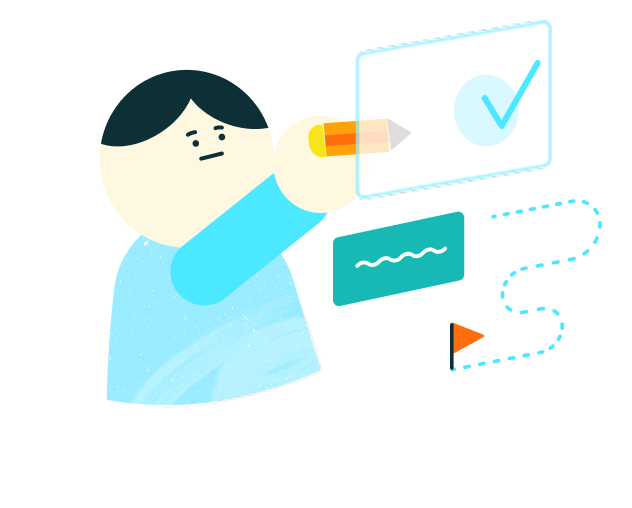
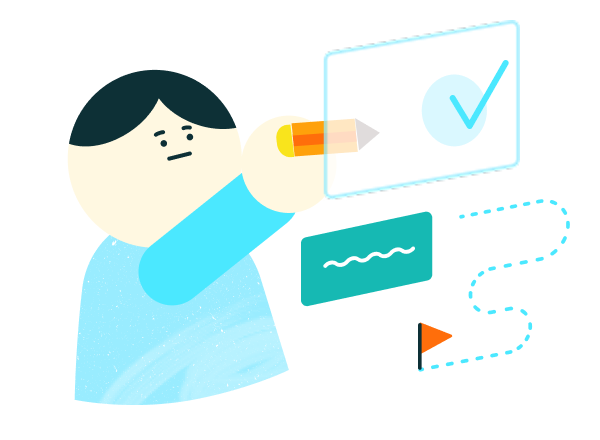
refactor(BaseLayout): implement parallax effects in CTASection, FunctionCarousel, PersonalitySection, and SloganSection for enhanced visual dynamics

Changed region(s): [[0.09, 0.0295, 0.96, 0.9455], [0.75, 0.7682, 0.87, 0.8273], [0.9, 0.5614, 0.93, 0.5909]]

diff --git a/hooks/useParallax.ts b/hooks/useParallax.ts
@@ -1,0 +1,105 @@
+'use client';
+
+import { useEffect, useRef, useState } from 'react';
+
+interface UseParallaxOptions {
+  speed?: number;
+  direction?: 'up' | 'down';
+  offset?: number;
+}
+
+interface UseParallaxPresetOptions {
+  preset?: 'slow';
+}
+
+// 預設配置 
+const PARALLAX_PRESETS = {
+  'slow': {
+    speed: 0.08,  // 慢速 - 適合背景元素、裝飾圖片
+    direction: 'up' as const,
+    offset: 0
+  }
+};
+
+export function useParallax<T extends HTMLElement = HTMLElement>(
+  options: UseParallaxOptions & UseParallaxPresetOptions = {}
+) {
+  const { preset, ...customOptions } = options;
+  
+  // 如果有預設配置，使用預設配置並覆蓋自定義選項
+  const presetConfig = preset ? PARALLAX_PRESETS[preset] : {};
+  const finalOptions = { ...presetConfig, ...customOptions };
+  
+  const { speed = 0.15, direction = 'up', offset = 0 } = finalOptions;
+  const elementRef = useRef<T>(null);
+  const [translateY, setTranslateY] = useState(0);
+
+  useEffect(() => {
+    let ticking = false;
+
+    const handleScroll = () => {
+      if (!ticking) {
+        requestAnimationFrame(() => {
+          if (!elementRef.current) {
+            ticking = false;
+            return;
+          }
+
+          const rect = elementRef.current.getBoundingClientRect();
+          const windowHeight = window.innerHeight;
+          const elementTop = rect.top;
+          const elementHeight = rect.height;
+
+          // 計算元素在視窗中的可見程度
+          const elementCenter = elementTop + elementHeight / 2;
+          const windowCenter = windowHeight / 2;
+          
+          // 當元素進入視窗時開始計算視差
+          if (elementTop < windowHeight && elementTop + elementHeight > 0) {
+            const distanceFromCenter = elementCenter - windowCenter;
+            const parallaxDistance = distanceFromCenter * speed;
+            
+            // 根據方向調整移動方向
+            const finalTranslateY = direction === 'up' 
+              ? parallaxDistance + offset
+              : -parallaxDistance + offset;
+            
+            setTranslateY(finalTranslateY);
+          }
+          
+          ticking = false;
+        });
+        ticking = true;
+      }
+    };
+
+    // 初始計算
+    handleScroll();
+
+    // 添加滾動監聽器
+    window.addEventListener('scroll', handleScroll, { passive: true });
+    window.addEventListener('resize', handleScroll, { passive: true });
+
+    return () => {
+      window.removeEventListener('scroll', handleScroll);
+      window.removeEventListener('resize', handleScroll);
+    };
+  }, [speed, direction, offset]);
+
+  return {
+    ref: elementRef,
+    style: {
+      transform: `translateY(${translateY}px)`,
+    },
+  };
+}
+
+/**
+ * 創建多個視差效果的便利函數
+ * 特別用於需要多個視差元素的場景
+ */
+export function useMultipleParallax<T extends HTMLElement = HTMLElement>(
+  configs: Array<UseParallaxOptions & UseParallaxPresetOptions>
+) {
+  return configs.map(config => useParallax<T>(config));
+}

diff --git a/app/[language]/(BaseLayout)/_home/PersonalityTest/PersonalitySection.tsx b/app/[language]/(BaseLayout)/_home/PersonalityTest/PersonalitySection.tsx
@@ -3,6 +3,7 @@
 import Image from 'next/image';
 import Link from 'next/link';
 import { cn } from '@/utils/cn';
+import { useParallax } from '@/hooks/useParallax';
 
 
 interface PersonalitySectionProps {
@@ -10,6 +11,10 @@ interface PersonalitySectionProps {
 }
 
 export function PersonalitySection({ className }: PersonalitySectionProps) {
+  // 為文字內容和按鈕創建視差效果
+  const textParallax = useParallax<HTMLDivElement>({});
+  const buttonParallax = useParallax<HTMLDivElement>({ preset: 'slow' });
+
   return (
     <section 
       className={cn(
@@ -22,7 +27,11 @@ export function PersonalitySection({ className }: PersonalitySectionProps) {
     >
       <div className="container mx-auto h-full flex flex-col justify-start lg:pt-24">
         <div className="flex flex-col items-center justify-center md:flex-row w-full">
-        <div className="text-center md:text-left w-full md:max-w-[44%] xl:max-w-[30%] relative z-10">
+        <div 
+          ref={textParallax.ref}
+          style={textParallax.style}
+          className="text-center md:text-left w-full md:max-w-[44%] xl:max-w-[30%] relative z-10"
+        >
           <h2 className="text-2xl md:text-3xl font-bold text-primary-darker text-left leading-tight mb-4">
             了解你的學習偏好，<br />
             獲得個人化的學習建議<br />
@@ -40,14 +49,20 @@ export function PersonalitySection({ className }: PersonalitySectionProps) {
           </div>
         </div>
         
-        <Link href="/personality-test" className="transform hover:scale-105 transition-transform duration-200 hover:animate-jelly relative z-10">
-          <Image 
-            src="/assets/landing-page/button-personality-test.svg" 
-            alt="點擊進入心理測驗" 
-            width={192} 
-            height={192}
-          />
-        </Link>
+        <div
+          ref={buttonParallax.ref}
+          style={buttonParallax.style}
+          className="relative z-10"
+        >
+          <Link href="/personality-test" className="transform hover:scale-105 transition-transform duration-200 hover:animate-jelly">
+            <Image 
+              src="/assets/landing-page/button-personality-test.svg" 
+              alt="點擊進入心理測驗" 
+              width={192} 
+              height={192}
+            />
+          </Link>
+        </div>
         </div>
 
         

diff --git a/app/[language]/(BaseLayout)/_home/Functions/FunctionCarousel.tsx b/app/[language]/(BaseLayout)/_home/Functions/FunctionCarousel.tsx
@@ -11,6 +11,7 @@ import {
   CarouselPrevious,
 } from '@/components/ui/carousel';
 import { FunctionCard } from './FunctionCard';
+import { useParallax } from '@/hooks/useParallax';
 
 interface FunctionCarouselProps {
   className?: string;
@@ -49,10 +50,14 @@ const functions = [
 
 
 export function FunctionCarousel({ className }: FunctionCarouselProps) {
+  
+  const ribbonParallax = useParallax<HTMLPictureElement>({ direction: 'up' });
 
   return (
     <section className={cn('relative pt-16 overflow-x-clip flex flex-col items-center justify-center bg-cyan-50', className)} id="functions">
-      <div className="text-teal-800 py-15 px-6">
+      <div 
+        className="text-teal-800 py-15 px-6"
+      >
         <SectionHeader
           title="學習群島上的功能生態"
           variant="dark"
@@ -62,7 +67,9 @@ export function FunctionCarousel({ className }: FunctionCarouselProps) {
         />
       </div>
 
-      <div className="w-full px-6 pt-4">
+      <div 
+        className="w-full px-6 py-4"
+      >
         <Carousel
           opts={{
             align: 'start',
@@ -85,19 +92,23 @@ export function FunctionCarousel({ className }: FunctionCarouselProps) {
               </CarouselItem>
             ))}
           </CarouselContent>
-          <div className="absolute -top-8 right-16 z-10 flex xl:hidden">
+          <div className="absolute -top-8 left-1/2 transform -translate-x-1/2 z-10 flex xl:hidden gap-2">
             <CarouselPrevious />
             <CarouselNext />
           </div>
         </Carousel>
       </div>
 
-      {/* 底部裝飾圖片 */}
-      <picture className="w-full">
+      {/* 底部裝飾圖片 - 使用視差效果 */}
+      <picture 
+        ref={ribbonParallax.ref}
+        style={ribbonParallax.style}
+        className="w-full"
+      >
         <source media="(max-width: 767.98px)" srcSet="/assets/landing-page/ribbon-mobile.svg" />
         <Image
           src="/assets/landing-page/ribbon-desktop.svg"
-          alt="功能生態裝飾"
+          alt="更多功能持續進化為你帶來美好的學習生活"
           width={1200}
           height={200}
           className="w-full"

diff --git a/app/[language]/(BaseLayout)/_home/Slogan/SloganSection.tsx b/app/[language]/(BaseLayout)/_home/Slogan/SloganSection.tsx
@@ -2,6 +2,7 @@
 
 import { cn } from '@/utils/cn';
 import { SectionHeader } from '@/app/[language]/(BaseLayout)/SectionHeader';
+import { useMultipleParallax } from '@/hooks/useParallax';
 import Image from 'next/image';
 
 interface SloganSectionProps {
@@ -9,17 +10,40 @@ interface SloganSectionProps {
 }
 
 export function SloganSection({ className }: SloganSectionProps) {
+  const [backgroundParallax, textParallax] = useMultipleParallax<HTMLDivElement>([
+    { preset: 'slow' }, 
+    {}                 
+  ]);
+
   return (
     <section className={cn('slogan-section bg-primary-palest px-6  text-basic-400  relative min-h-[195px] md:min-h-[200px]', className)}>
       {/* 背景島嶼裝飾圖片 */}
-      <Image
-        src="/assets/landing-page/deco-island.svg"
-        alt="島嶼裝飾"
-        width={429}
-        height={208}
-        className="absolute -top-3 left-1/2 transform -translate-x-1/2  "
-      />
-      <div className="absolute top-2/3 left-1/2 transform -translate-x-1/2 -translate-y-1/2 z-10 w-full">
+      <div
+        ref={backgroundParallax.ref}
+        style={{
+          ...backgroundParallax.style,
+          transform: `translateX(-50%) ${backgroundParallax.style.transform}`,
+        }}
+        className="absolute top-16 md:-top-4 left-1/2 z-[1] "
+      >
+        <Image
+          src="/assets/landing-page/deco-island.svg"
+          alt="島嶼裝飾"
+          width={429}
+          height={208}
+
+        />
+      </div>
+      
+      {/* 文字內容 */}
+      <div
+        ref={textParallax.ref}
+        style={{
+          ...textParallax.style,
+          transform: `translateX(-50%) translateY(-50%) ${textParallax.style.transform}`,
+        }}
+        className="absolute top-32 left-1/2 z-10 w-full"
+      >
         <SectionHeader
           title={
             <>

diff --git a/app/[language]/(BaseLayout)/_home/CallToAction/CTASection.tsx b/app/[language]/(BaseLayout)/_home/CallToAction/CTASection.tsx
@@ -3,12 +3,17 @@
 import { cn } from '@/utils/cn';
 import { Button } from '@/components/ui/button';
 import Image from 'next/image';
+import { useParallax } from '@/hooks/useParallax';
 
 interface CTASectionProps {
   className?: string;
 }
 
 export function CTASection({ className }: CTASectionProps) {
+  // 為不同元素創建視差效果
+  const titleParallax = useParallax<HTMLHeadingElement>({});
+  const buttonParallax = useParallax<HTMLDivElement>({ preset: 'slow' });
+
   return (
     <section 
       className={cn(
@@ -24,16 +29,26 @@ export function CTASection({ className }: CTASectionProps) {
         className="object-cover md:object-contain object-center z-0"
         aria-hidden="true"
       />
-      <h2 className="relative z-10 text-[20px] md:text-[24px] font-semibold text-primary-darker text-center my-4 leading-tight">
+      <h2 
+        ref={titleParallax.ref}
+        style={titleParallax.style}
+        className="relative z-10 text-[20px] md:text-[24px] font-semibold text-primary-darker text-center my-4 leading-tight"
+      >
         準備好重新打造<br />
         你喜歡的學習生活了嗎？
       </h2>
-      <Button 
-        variant="ctaOrange"
-        size="huge"
+      <div
+        ref={buttonParallax.ref}
+        style={buttonParallax.style}
+        className="relative z-10"
       >
-        立即加入
-      </Button>
+        <Button 
+          variant="ctaOrange"
+          size="huge"
+        >
+          立即加入
+        </Button>
+      </div>
     </section>
   );
 }

diff --git a/app/[language]/(BaseLayout)/_home/Presentation/PresentationSection.tsx b/app/[language]/(BaseLayout)/_home/Presentation/PresentationSection.tsx
@@ -2,6 +2,7 @@
 
 import { cn } from '@/utils/cn';
 import Image from 'next/image';
+import { SectionHeader } from '@/app/[language]/(BaseLayout)/SectionHeader';
 
 interface PresentationSectionProps {
   className?: string;
@@ -20,14 +21,14 @@ export function PresentationSection({ className }: PresentationSectionProps) {
       />
       
       <div className="container flex flex-col items-center justify-end text-center">
-        <div className="w-full flex flex-col items-center md:items-center">
-          <h2 className="text-3xl md:text-4xl lg:text-5xl font-bold text-white mb-4">
-            展示你的學習成果
-          </h2>
-          <h3 className="text-lg md:text-xl text-mascot-aqua">
-            在實踐中與眾人一同成長
-          </h3>
-        </div>
+        <SectionHeader
+          title="展示你的學習成果"
+          subtitle="在實踐中與眾人一同成長"
+          variant="light"
+          alignment="center"
+          titleClassName=""
+          subtitleClassName="text-mascot-aqua"
+        />
       </div>
 
       {/* 學習進度展示圖片 - 突破 container padding */}

diff --git a/app/[language]/(BaseLayout)/_home/Features/FeatureCard.tsx b/app/[language]/(BaseLayout)/_home/Features/FeatureCard.tsx
@@ -18,7 +18,7 @@ export function FeatureCard({ title, description, tag, image, details, className
       <div className="flex justify-center items-center w-[84px] h-8 text-sm bg-tips text-white rounded">
         {tag}
       </div>
-      <div className="w-full h-[200px] md:h-[240px] relative overflow-hidden rounded-lg mb-4">
+      <div className="w-full h-[200px] md:h-[200px] relative overflow-hidden rounded-lg mb-4">
         <Image
           src={image}
           alt={title}

diff --git a/app/[language]/(BaseLayout)/_home/KeyVision/Keyvision.tsx b/app/[language]/(BaseLayout)/_home/KeyVision/Keyvision.tsx
@@ -24,7 +24,7 @@ export function KeyVision() {
             alt="裝飾橘花"
             width={44}
             height={39}
-            className="absolute top-0 left-0 w-6 h-6 md:w-6 md:h-6 z-0"
+            className="absolute top-0 left-0 w-6 h-6 md:w-16 md:h-16 z-0"
           />
           <Image
             src="/assets/landing-page/deco-arrow.svg"
